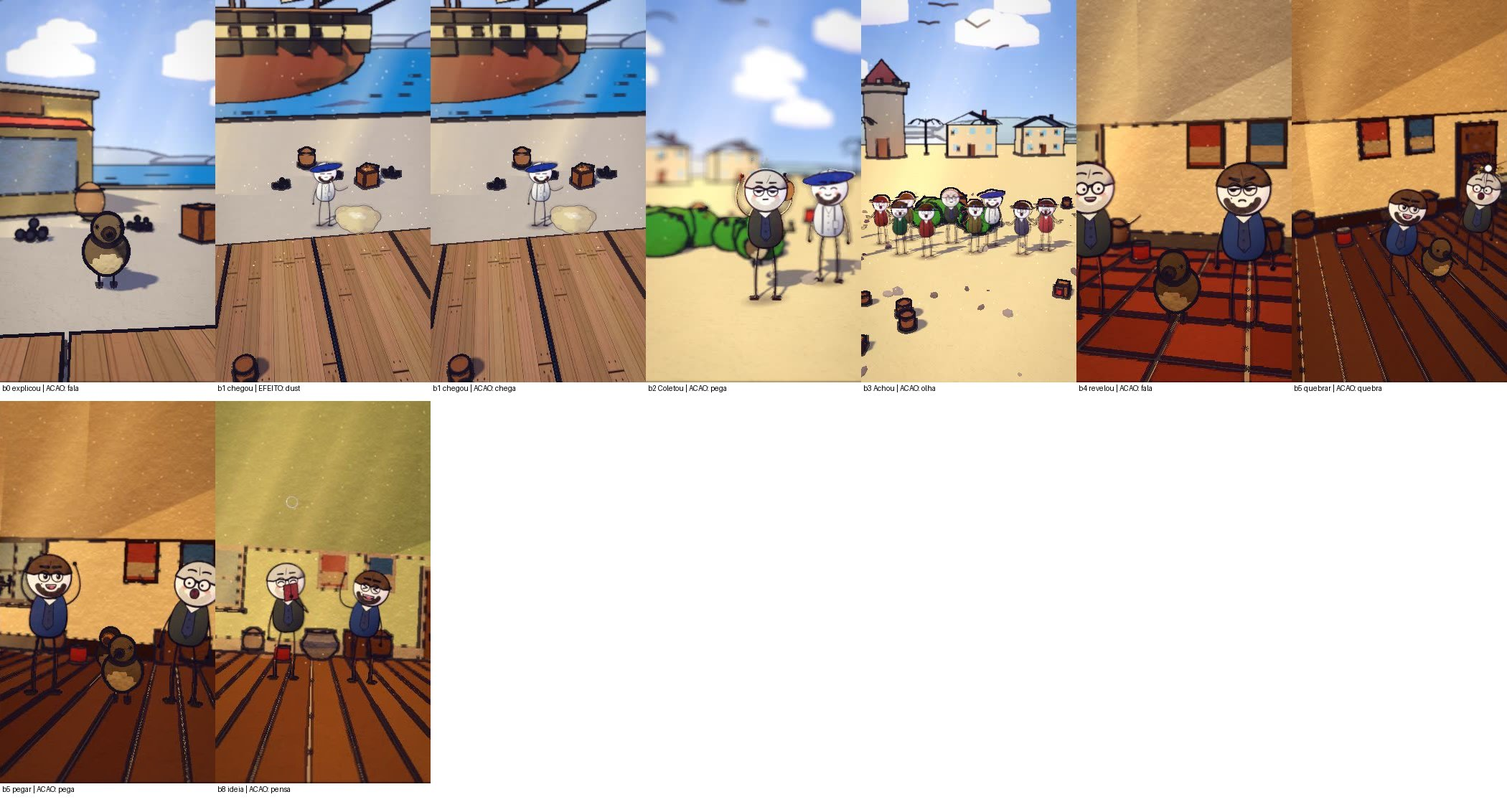
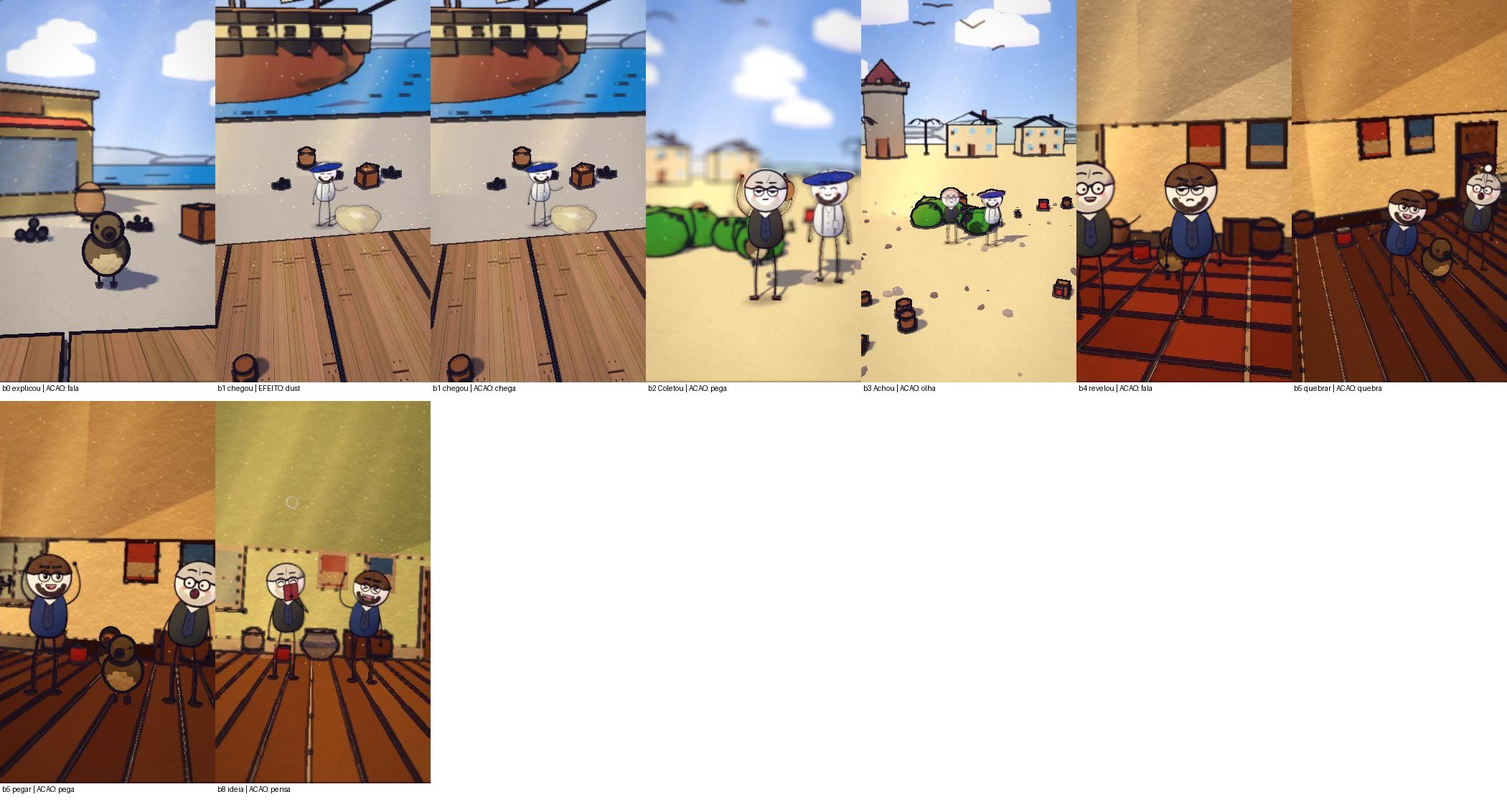
Arquimedes (C&C EP02) conferido frase a frase e entregue
Claude-Session: https://claude.ai/code/session_01HE8Dy3UcXXZZMLa7uzjNJD

Changed region(s): [[0.7429, 0.1825, 0.8667, 0.4258], [0.5571, 0.2433, 0.7119, 0.3345], [0.619, 0.0, 0.65, 0.0304]]

diff --git a/ferramenta-shorts/stories/darwin1835/spec.js b/ferramenta-shorts/stories/darwin1835/spec.js
@@ -17,10 +17,10 @@ const SPEC = {
     { ...{ ...S('b1', A[1], A[2] - 1, X, "day", { h: 4.0, d0: 21.0, d1: 20.0, el: 10, fov: 46, cx: 0.0, cz: -2.0, hero: { hero: 'none', wide: true }, vary: false, nocut: true, trans: 'dissolve', actors: [_MA(pp(X, "MAR", 0, 0.0, -0.4, "neutral"), { gests: [[WS(24) - 8, WS(24) + 46, 'point']] })], props: [{ asset: "kit/navio_vela", at: [X + -7.0, -33.8], s: 7.65, fixo: true, drop: false }, { asset: "kit/navio_fragata", at: [X + -15, -36], s: 7.06, drop: false }, { asset: "boat", at: [X + 30, -22], s: 1.0 }], fx: [{ k: 'map', a: WS(17, -2), b: Math.min(A[2] - 1, WS(17, -2) + 54), text: "GALÁPAGOS", geo: {"polys": [[260, 263, 258, 263, 252, 259, 253, 256, 255, 253, 262, 252, 265, 254, 265, 259, 263, 262, 261, 262, 260, 263], [293, 268, 289, 269, 287, 268, 287, 268, 286, 267, 289, 265, 291, 263, 293, 261, 297, 259, 298, 260, 299, 260, 299, 261, 298, 263, 295, 265, 293, 268], [220, 251, 217, 252, 214, 251, 212, 249, 212, 246, 212, 245, 219, 244, 221, 246, 221, 250, 220, 251], [257, 283, 255, 283, 253, 282, 255, 279, 256, 280, 258, 280, 258, 282, 257, 283], [226, 234, 228, 236, 229, 243, 237, 250, 238, 254, 237, 255, 237, 256, 241, 259, 243, 262, 239, 269, 231, 272, 222, 271, 221, 271, 218, 268, 218, 266, 219, 264, 224, 260, 231, 257, 231, 255, 229, 253, 227, 248, 222, 245, 220, 235, 219, 235, 216, 236, 214, 235, 214, 235, 217, 232, 218, 231, 223, 230, 225, 231, 226, 234], [251, 247, 250, 248, 243, 247, 241, 244, 242, 242, 244, 240, 248, 242, 252, 245, 251, 247]], "hl": [0, 1, 2, 3, 4, 5], "pin": [254.0, 260.0]} }, { k: "dust", a: WS(24), b: WS(24) + 28, at: [X + 0.9, DK + 0.12, 1.7], s: 1.3 }] }), nocut: true }, cam: [{ f: A[1], at: [X + 0.0, DK + 2.0, 0.5], d: 9, az: 10, el: 5, fov: 46 }, { f: A[2] - 1, at: [X + 0.0, DK + 1.0, -2.0], d: 30, az: -14, el: 30, fov: 48 }], nocut: true },
     S('b2', A[2], Math.round(A[2] + (A[3] - 1 + 1 - (A[2])) * 0.36) - 1, X_palace, "day", { h: 2.3, d0: 12.1, d1: 11.5, az0: -26, az1: -12, cx: 0.0, cz: -0.6, vary: false, hero: { hero: 'any', frame: 'medium', minH: 0.07, main: 2 }, trans: 'dissolve', actors: [_MA(pp(X_palace, "DAR", 0, -1.0, 1.3, "neutral", { over: { hold: "bag" }, inter: { k: 'lean', a: Math.round(A[2] + (A[3] - 1 - (A[2])) * 0.12), b: Math.round(A[2] + (A[3] - 1 - (A[2])) * 0.82), dir: 1, n: 2, ph: 0 } }), { gests: [[WS(31) - 8, WS(31) + 46, 'lift']] }), pp(X_palace, "MAR", 0, 1.0, 1.0, "smile", { pose: 'talk', inter: { k: 'nod', a: Math.round(A[2] + (A[3] - 1 - (A[2])) * 0.2), b: Math.round(A[2] + (A[3] - 1 - (A[2])) * 0.9), dir: -1, n: 2, ph: 3.14 } })], props: [{ asset: "kit/finch", at: [X_palace + 0.0, -1.2], s: 1.3, fixo: true, drop: false }], fx: [{ k: 'stars', a: A[2] + 6, b: A[2] + 40, at: [X_palace + 0.0, DK + 1.6, -0.7], s: 0.8 }, { k: 'birds', a: A[2], b: A[3] - 1, at: [X_palace, DK + 7.5, -30], n: 6, dir: -1, off: 8 }] }), { ...S('b2_d', Math.round(A[2] + (A[3] - 1 + 1 - (A[2])) * 0.36), Math.round(A[2] + (A[3] - 1 + 1 - (A[2])) * 0.6) - 1, X_palace, "day", { h: 2.3, d0: 12.1, d1: 11.5, az0: -26, az1: -12, cx: 0.0, cz: -0.6, vary: false, hero: { hero: 'none', detalhe: true }, trans: 'cut', actors: [_MA(pp(X_palace, "DAR", 0, -1.0, 1.3, "neutral", { over: { hold: "bag" } }), { gests: [[WS(31) - 8, WS(31) + 46, 'lift']] }), pp(X_palace, "MAR", 0, 1.0, 1.0, "smile", { pose: 'stand' })], props: [{ asset: "kit/finch", at: [X_palace + 0.0, -1.2], s: 1.3, drop: false, fixo: true, drop: false }], fx: [{ k: 'stars', a: A[2] + 6, b: A[2] + 40, at: [X_palace + 0.0, DK + 1.6, -0.7], s: 0.8 }, { k: 'birds', a: A[2], b: A[3] - 1, at: [X_palace, DK + 7.5, -30], n: 6, dir: -1, off: 8 }] }), cam: [{ f: Math.round(A[2] + (A[3] - 1 + 1 - (A[2])) * 0.36), at: [X_palace + 0.0, DK + 0.975, -1.2], d: 4.2, az: -14, el: 10, fov: 44 }, { f: Math.round(A[2] + (A[3] - 1 + 1 - (A[2])) * 0.6) - 1, at: [X_palace + 0.0, DK + 0.975, -1.2], d: 3.4, az: -8, el: 9, fov: 44 }], nocut: true, vary: false, glide: true, glideN: 34 }, { ...S('b2_v', Math.round(A[2] + (A[3] - 1 + 1 - (A[2])) * 0.6), A[3] - 1, X_palace, "day", { h: 2.3, d0: 12.1, d1: 11.5, az0: -26, az1: -12, cx: 0.0, cz: -0.6, vary: false, hero: { hero: 'any', frame: 'medium', minH: 0.07, main: 2 }, trans: 'cut', actors: [_MA(pp(X_palace, "DAR", 0, -1.0, 1.3, "neutral", { over: { hold: "bag" }, inter: { k: 'lean', a: Math.round(A[2] + (A[3] - 1 - (A[2])) * 0.12), b: Math.round(A[2] + (A[3] - 1 - (A[2])) * 0.82), dir: 1, n: 2, ph: 0 } }), { gests: [[WS(31) - 8, WS(31) + 46, 'lift']] }), pp(X_palace, "MAR", 0, 1.0, 1.0, "smile", { pose: 'talk', inter: { k: 'nod', a: Math.round(A[2] + (A[3] - 1 - (A[2])) * 0.2), b: Math.round(A[2] + (A[3] - 1 - (A[2])) * 0.9), dir: -1, n: 2, ph: 3.14 } })], props: [{ asset: "kit/finch", at: [X_palace + 0.0, -1.2], s: 1.3, drop: false, fixo: true, drop: false }], fx: [{ k: 'stars', a: A[2] + 6, b: A[2] + 40, at: [X_palace + 0.0, DK + 1.6, -0.7], s: 0.8 }, { k: 'birds', a: A[2], b: A[3] - 1, at: [X_palace, DK + 7.5, -30], n: 6, dir: -1, off: 8 }] }), glide: true, glideN: 34 },
     { ...S('b3', A[3], A[4] - 1, X_palace, "day", { h: 2.6, d0: 25.0, d1: 19.0, el: 11, fov: 46, cx: 0.0, cz: -1.5, hero: { hero: 'none', wide: true }, vary: false, nocut: true, trans: 'dissolve', actors: [_MA(pp(X_palace, "DAR", 0, -1.0, -0.4, "suspicious", { over: { hold: "paper" }, pose: 'talk' }), { gests: [[WS(55) - 8, WS(55) + 46, 'point']] }), pp(X_palace, "MAR", 0, 1.0, 0.2, "bored", { pose: 'talk' })], props: [{ asset: "kit/finch", at: [X_palace + 0.0, -2.3], s: 1.3, drop: false }], fx: [{ k: 'birds', a: A[3], b: A[4] - 1, at: [X_palace, DK + 4.5, -30], n: 4, dir: -1, off: 15 }, { k: "ring", a: A[3] + 12, b: A[3] + 38, at: [X_palace, DK + 0.5, 1.2], s: 1.1 }, { k: "dust", a: A[3] + 40, b: A[3] + 66, at: [X_palace + 0.9, DK + 0.12, 1.0], s: 0.75 }] }), nocut: true },
-    S('b4', A[4], A[5] - 1, X_hall, "study", { h: 2.3, d0: 12.1, d1: 11.5, az0: 6, az1: 12, cx: 0.0, cz: -0.6, vary: false, hero: { hero: 'any', frame: 'medium', minH: 0.07, main: 2 }, trans: 'dissolve', actors: [_MA(pp(X_hall, "DAR", 0, -1.0, 1.3, "surprised", { pose: 'talk', inter: { k: 'lunge', a: Math.round(A[4] + (A[5] - 1 - (A[4])) * 0.12), b: Math.round(A[4] + (A[5] - 1 - (A[4])) * 0.82), dir: 1, n: 2, ph: 0 } }), { gests: [[WS(76) - 8, WS(76) + 46, 'point']] }), pp(X_hall, "GOU", 0, 1.0, 1.0, "shout", { pose: 'talk', inter: { k: 'lunge', a: Math.round(A[4] + (A[5] - 1 - (A[4])) * 0.2), b: Math.round(A[4] + (A[5] - 1 - (A[4])) * 0.9), dir: -1, n: 2, ph: 3.14 } })], props: [{ asset: "kit/room_colonial_stone", at: [X_hall, 0], s: 1, drop: false }, { asset: "mk/Bookcase_2", at: [X_hall + 7.4, -3.4], s: 2.4, drop: false }, { asset: "mk/Table_Large", at: [X_hall + -6.6, -1.6], s: 2.2, drop: false }, { asset: "mk/Chair_1", at: [X_hall + -4.4, -1.2], s: 2.2, drop: false }, { asset: "mk/Chest_Wood", at: [X_hall + 6.9, 0.6], s: 2.2, drop: false }, { asset: "kit/finch", at: [X_hall + 0.6, 1.0], s: 1.5, fixo: true, drop: false }], fx: [{ k: 'stars', a: A[4] + 6, b: A[4] + 40, at: [X_hall + 0.6, DK + 1.6, 1.5], s: 0.8 }] }),
+    S('b4', A[4], A[5] - 1, X_hall, "study", { h: 2.3, d0: 12.1, d1: 11.5, az0: 6, az1: 12, cx: 0.0, cz: -0.6, vary: false, hero: { hero: 'any', frame: 'medium', minH: 0.07, main: 2 }, trans: 'dissolve', actors: [_MA(pp(X_hall, "DAR", 0, -1.0, 1.3, "surprised", { pose: 'talk', inter: { k: 'lunge', a: Math.round(A[4] + (A[5] - 1 - (A[4])) * 0.12), b: Math.round(A[4] + (A[5] - 1 - (A[4])) * 0.82), dir: 1, n: 2, ph: 0 } }), { gests: [[WS(76) - 8, WS(76) + 46, 'point']] }), pp(X_hall, "GOU", 0, 1.0, 1.0, "shout", { pose: 'talk', inter: { k: 'lunge', a: Math.round(A[4] + (A[5] - 1 - (A[4])) * 0.2), b: Math.round(A[4] + (A[5] - 1 - (A[4])) * 0.9), dir: -1, n: 2, ph: 3.14 } })], props: [{ asset: "kit/room_colonial_stone", at: [X_hall, 0], s: 1, drop: false }, { asset: "mk/Bookcase_2", at: [X_hall + 7.4, -3.4], s: 2.4, drop: false }, { asset: "mk/Table_Large", at: [X_hall + -6.6, -1.6], s: 2.2, drop: false }, { asset: "mk/Chair_1", at: [X_hall + -4.4, -1.2], s: 2.2, drop: false }, { asset: "mk/Chest_Wood", at: [X_hall + 6.9, 0.6], s: 2.2, drop: false }, { asset: "kit/finch", at: [X_hall + 0.0, -1.2], s: 1.5, fixo: true, drop: false }], fx: [{ k: 'stars', a: A[4] + 6, b: A[4] + 40, at: [X_hall + 0.0, DK + 1.6, -0.7], s: 0.8 }] }),
     S('b5', A[5], A[6] - 1, X_hall, "study", { h: 2.3, d0: 12.1, d1: 11.5, az0: -6, az1: 2, cx: 0.0, cz: -0.6, punches: [{ f: WS(91), amt: 0.11, dur: 20 }], vary: false, hero: { hero: 'any', frame: 'medium', minH: 0.07, main: 2 }, trans: 'dissolve', actors: [_MA(pp(X_hall, "GOU", 0, -1.0, 1.3, "smile", { pose: 'talk', inter: { k: 'step', a: Math.round(A[5] + (A[6] - 1 - (A[5])) * 0.12), b: Math.round(A[5] + (A[6] - 1 - (A[5])) * 0.82), dir: 1, n: 2, ph: 0 } }), { gests: [[WS(91) - 8, Math.max(WS(91) + 14, WS(96) - 5), 'throw'], [WS(96) - 8, WS(96) + 46, 'lift']] }), pp(X_hall, "DAR", 0, 1.0, 1.0, "surprised", { pose: 'talk', inter: { k: 'recoil', a: Math.round(A[5] + (A[6] - 1 - (A[5])) * 0.2), b: Math.round(A[5] + (A[6] - 1 - (A[5])) * 0.9), dir: -1, n: 2, ph: 3.14 } })], props: [{ asset: "kit/room_europa_wood", at: [X_hall, 0], s: 1, drop: false }, { asset: "mk/Cabinet", at: [X_hall + -7.2, -3.3], s: 2.3, drop: false }, { asset: "mk/Bed_Twin1", at: [X_hall + 7.0, -2.4], s: 2.1, drop: false }, { asset: "mk/Nightstand_Shelf", at: [X_hall + 4.6, -3.2], s: 2.2, drop: false }, { asset: "mk/CandleStick_Stand", at: [X_hall + -4.8, -2.8], s: 2.2, drop: false }, { asset: "mk/Barrel", at: [X_hall + -7.4, 0.8], s: 2.0, drop: false }, { asset: "kit/finch_thick", at: [X_hall + 0.0, -1.0], s: 1.5, fixo: true, drop: false }, { asset: "kit/finch_long", at: [X_hall + 0.6, 1.0], s: 1.5, fixo: true, drop: false }], fx: [{ k: "dust", a: A[5] + 40, b: A[5] + 66, at: [X_hall + 0.9, DK + 0.12, 1.0], s: 0.75 }, { k: "stars", a: A[5] + 60, b: A[5] + 86, at: [X_hall, DK + 0.5, 1.2], s: 1.1 }, { k: 'burst', a: WS(91) + 2, b: WS(91) + 20, at: [X_hall + 1.3, DK + 1.6, 2.5], s: 1.1 }, { k: 'stars', a: WS(91) + 4, b: WS(91) + 30, at: [X_hall + 1.3, DK + 1.8, 2.5], s: 0.8 }] }),
     { ...S('b6', A[6], A[7] - 1, X_palace, "day", { h: 2.6, d0: 12.1, d1: 11.5, el: 11, fov: 46, cx: 0.0, cz: -0.6, hero: { hero: 'none', wide: true }, vary: false, nocut: true, trans: 'dissolve', actors: [pp(X_palace, "DAR", 0, -1.0, -0.4, "shock", { pose: 'react' }), pp(X_palace, "GOU", 0, 1.0, 0.2, "surprised")], props: [{ asset: "kit/finch_thick", at: [X_palace + 0.6, 1.0], s: 1.5, fixo: true, drop: false }, { asset: "kit/finch_long", at: [X_palace + 0.0, 1.4], s: 2.0, fixo: true, drop: false }, { asset: "kit/finch", at: [X_palace + 0.0, -1.2], s: 2.0, fixo: true, drop: false }], fx: [{ k: 'birds', a: A[6], b: A[7] - 1, at: [X_palace, DK + 4.5, -30], n: 4, dir: -1, off: 8 }, { k: "ring", a: A[6] + 40, b: A[6] + 66, at: [X_palace, DK + 0.5, 1.2], s: 1.1 }, { k: "stars", a: A[6] + 60, b: A[6] + 86, at: [X_palace, DK + 0.5, 1.2], s: 1.1 }] }), nocut: true },
-    S('b7', A[7], A[8] - 1, X_hall, "study", { h: 2.3, d0: 12.1, d1: 11.5, az0: 10, az1: 4, cx: 0.0, cz: -0.6, hero: { hero: 'any', frame: 'medium', minH: 0.07, main: 2 }, trans: 'dissolve', actors: [pp(X_hall, "DAR", 0, -1.0, 1.3, "smile", { pose: 'talk', inter: { k: 'lean', a: Math.round(A[7] + (A[8] - 1 - (A[7])) * 0.12), b: Math.round(A[7] + (A[8] - 1 - (A[7])) * 0.82), dir: 1, n: 2, ph: 0 } }), pp(X_hall, "GOU", 0, 1.0, 1.0, "grin", { pose: 'talk', inter: { k: 'lean', a: Math.round(A[7] + (A[8] - 1 - (A[7])) * 0.2), b: Math.round(A[7] + (A[8] - 1 - (A[7])) * 0.9), dir: -1, n: 2, ph: 3.14 } })], props: [{ asset: "kit/room_verde_wood", at: [X_hall, 0], s: 1, drop: false }, { asset: "mk/Workbench_Drawers", at: [X_hall + 7.0, -3.0], s: 2.2, drop: false }, { asset: "mk/Shelf_Small_Bottles", at: [X_hall + -6.8, -3.4], s: 2.4, drop: false }, { asset: "mk/Stool", at: [X_hall + 4.8, -1.4], s: 2.2, drop: false }, { asset: "mk/Crate_Wooden", at: [X_hall + -7.0, 0.4], s: 2.0, drop: false }, { asset: "mk/Vase_2", at: [X_hall + 0.0, -3.6], s: 2.2, drop: false }, { asset: "kit/finch_thick", at: [X_hall + 0.6, 1.0], s: 1.5, fixo: true, drop: false }] }),
+    S('b7', A[7], A[8] - 1, X_hall, "study", { h: 2.3, d0: 12.1, d1: 11.5, az0: 10, az1: 4, cx: 0.0, cz: -0.6, hero: { hero: 'any', frame: 'medium', minH: 0.07, main: 2 }, trans: 'dissolve', actors: [pp(X_hall, "DAR", 0, -1.0, 1.3, "smile", { pose: 'talk', inter: { k: 'lean', a: Math.round(A[7] + (A[8] - 1 - (A[7])) * 0.12), b: Math.round(A[7] + (A[8] - 1 - (A[7])) * 0.82), dir: 1, n: 2, ph: 0 } }), pp(X_hall, "GOU", 0, 1.0, 1.0, "grin", { pose: 'talk', inter: { k: 'lean', a: Math.round(A[7] + (A[8] - 1 - (A[7])) * 0.2), b: Math.round(A[7] + (A[8] - 1 - (A[7])) * 0.9), dir: -1, n: 2, ph: 3.14 } })], props: [{ asset: "kit/room_verde_wood", at: [X_hall, 0], s: 1, drop: false }, { asset: "mk/Workbench_Drawers", at: [X_hall + 7.0, -3.0], s: 2.2, drop: false }, { asset: "mk/Shelf_Small_Bottles", at: [X_hall + -6.8, -3.4], s: 2.4, drop: false }, { asset: "mk/Stool", at: [X_hall + 4.8, -1.4], s: 2.2, drop: false }, { asset: "mk/Crate_Wooden", at: [X_hall + -7.0, 0.4], s: 2.0, drop: false }, { asset: "mk/Vase_2", at: [X_hall + 0.0, -3.6], s: 2.2, drop: false }, { asset: "kit/finch_thick", at: [X_hall + 0.0, -1.0], s: 1.5, fixo: true, drop: false }] }),
     S('b8', A[8], A[9] - 1, X_hall, "study", { h: 2.5, d0: 11.4, d1: 10.2, az0: -13, az1: -7, vary: false, hero: { hero: 'any', frame: 'medium', minH: 0.07, main: 2 }, trans: 'dissolve', actors: [_MA(pp(X_hall, "DAR", 0, -1.0, 1.3, "grin", { over: { hold: "book" }, pose: 'cheer', inter: { k: 'hop', a: Math.round(A[8] + (A[9] - 1 - (A[8])) * 0.12), b: Math.round(A[8] + (A[9] - 1 - (A[8])) * 0.82), dir: 1, n: 2, ph: 0 } }), { gests: [[WS(127) - 8, WS(127) + 46, 'think']] }), pp(X_hall, "GOU", 0, 1.0, 1.0, "laugh", { pose: 'cheer', inter: { k: 'hop', a: Math.round(A[8] + (A[9] - 1 - (A[8])) * 0.2), b: Math.round(A[8] + (A[9] - 1 - (A[8])) * 0.9), dir: -1, n: 2, ph: 3.14 } })], props: [{ asset: "kit/room_verde_wood", at: [X_hall, 0], s: 1, drop: false }, { asset: "mk/Workbench_Drawers", at: [X_hall + 7.0, -3.0], s: 2.2, drop: false }, { asset: "mk/Shelf_Small_Bottles", at: [X_hall + -6.8, -3.4], s: 2.4, drop: false }, { asset: "mk/Stool", at: [X_hall + 4.8, -1.4], s: 2.2, drop: false }, { asset: "mk/Crate_Wooden", at: [X_hall + -7.0, 0.4], s: 2.0, drop: false }, { asset: "mk/Vase_2", at: [X_hall + 0.0, -3.6], s: 2.2, drop: false }], fx: [{ k: 'ring', a: WS(127) + 6, b: WS(127) + 34, at: [X_hall + -1.0, DK + 3.6, 1.5], s: 0.7 }] }),
     S('b9', A[9], Math.round(A[9] + (A[10] - 1 + 1 - (A[9])) * 0.36) - 1, X_countryside, "day", { h: 2.3, d0: 8.4, d1: 8.0, az0: -6, az1: 8, cx: 1.2, cz: 0.1, hero: { hero: 'any', frame: 'medium', minH: 0.07, main: 1 }, trans: 'dissolve', actors: [pp(X_countryside, "DAR", 0, 0.0, 1.3, "smug", { pose: 'talk' })], props: [{ asset: "buildings/house_two", at: [X_countryside + 4.8, -11.0], s: 1.05, ry: -0.35, drop: false }, { asset: "kit/finch", at: [X_countryside + 2.4, 0.2], s: 1.3, fixo: true, drop: false }], fx: [{ k: 'stars', a: A[9] + 6, b: A[9] + 40, at: [X_countryside + 2.4, DK + 1.6, 0.7], s: 0.8 }] }), { ...S('b9_d', Math.round(A[9] + (A[10] - 1 + 1 - (A[9])) * 0.36), Math.round(A[9] + (A[10] - 1 + 1 - (A[9])) * 0.6) - 1, X_countryside, "day", { h: 2.3, d0: 8.4, d1: 8.0, az0: -6, az1: 8, cx: 1.2, cz: 0.1, hero: { hero: 'none', detalhe: true }, trans: 'cut', actors: [pp(X_countryside, "DAR", 0, 0.0, 1.3, "smug", { pose: 'stand' })], props: [{ asset: "buildings/house_two", at: [X_countryside + 4.8, -11.0], s: 1.05, drop: false, ry: -0.35, drop: false }, { asset: "kit/finch", at: [X_countryside + 2.4, 0.2], s: 1.3, drop: false, fixo: true, drop: false }], fx: [{ k: 'stars', a: A[9] + 6, b: A[9] + 40, at: [X_countryside + 2.4, DK + 1.6, 0.7], s: 0.8 }] }), cam: [{ f: Math.round(A[9] + (A[10] - 1 + 1 - (A[9])) * 0.36), at: [X_countryside + 2.4, DK + 0.975, 0.2], d: 4.2, az: -14, el: 10, fov: 44 }, { f: Math.round(A[9] + (A[10] - 1 + 1 - (A[9])) * 0.6) - 1, at: [X_countryside + 2.4, DK + 0.975, 0.2], d: 3.4, az: -8, el: 9, fov: 44 }], nocut: true, vary: false, glide: true, glideN: 34 }, { ...S('b9_v', Math.round(A[9] + (A[10] - 1 + 1 - (A[9])) * 0.6), A[10] - 1, X_countryside, "day", { h: 2.3, d0: 8.4, d1: 8.0, az0: -6, az1: 8, cx: 1.2, cz: 0.1, hero: { hero: 'any', frame: 'medium', minH: 0.07, main: 1 }, trans: 'cut', actors: [pp(X_countryside, "DAR", 0, 0.0, 1.3, "smug", { pose: 'talk' })], props: [{ asset: "buildings/house_two", at: [X_countryside + 4.8, -11.0], s: 1.05, drop: false, ry: -0.35, drop: false }, { asset: "kit/finch", at: [X_countryside + 2.4, 0.2], s: 1.3, drop: false, fixo: true, drop: false }], fx: [{ k: 'stars', a: A[9] + 6, b: A[9] + 40, at: [X_countryside + 2.4, DK + 1.6, 0.7], s: 0.8 }] }), glide: true, glideN: 34 },
     S('b10', A[10], A[11] - 1, X_countryside, "day", { h: 2.4, d0: 6.4, d1: 5.6, az0: -26, az1: -12, hero: { hero: 'any', frame: 'medium', minH: 0.07, main: 1 }, trans: 'dissolve', actors: [pp(X_countryside, "DAR", 0, 0.0, 1.3, "grin", { pose: 'talk' })], props: [{ asset: "buildings/house_small", at: [X_countryside + -4.8, -11.0], s: 1.05, ry: 0.35, drop: false }, { asset: "kit/finch", at: [X_countryside + -1.7, -0.5], s: 1.3, drop: false }], fx: [{ k: 'stars', a: A[10] + 6, b: A[10] + 40, at: [X_countryside + -1.7, DK + 1.6, 0.0], s: 0.8 }, { k: 'birds', a: A[10], b: A[11] - 1, at: [X_countryside, DK + 6.0, -30], n: 5, dir: -1, off: 8 }, txt(X_countryside, WS(151, -2), A[11] - 1, "COMENTE!", '#d8282f', '#fff6e0', 4.6, { s: 1.5, up: 0.55 })] })

diff --git a/ferramenta-shorts/stories/cachorro1925/timing.js b/ferramenta-shorts/stories/cachorro1925/timing.js
@@ -1,1 +1,1 @@
-const TIMING = {"total": 1634, "words": [[5, 10, "Um"], [10, 25, "cachorro"], [25, 34, "fugiu,"], [43, 48, "e"], [48, 53, "por"], [53, 62, "causa"], [62, 71, "dele"], [71, 76, "dois"], [76, 85, "pa\u00edses"], [85, 99, "entraram"], [99, 104, "em"], [104, 113, "guerra,"], [122, 127, "e"], [127, 140, "dezenas"], [140, 144, "de"], [144, 153, "pessoas"], [153, 166, "morreram."], [192, 196, "Em"], [196, 200, "mil"], [200, 216, "novecentos"], [216, 220, "e"], [220, 223, "vinte"], [223, 227, "e"], [227, 235, "cinco,"], [242, 246, "a"], [246, 259, "fronteira"], [259, 263, "entre"], [263, 268, "a"], [268, 272, "Gr\u00e9cia"], [272, 276, "e"], [276, 281, "a"], [281, 289, "Bulg\u00e1ria"], [289, 298, "era"], [298, 306, "tensa,"], [315, 320, "e"], [320, 326, "os"], [326, 332, "dois"], [332, 343, "pa\u00edses"], [343, 354, "viviam"], [354, 376, "desconfiados."], [401, 404, "Um"], [404, 416, "soldado"], [416, 424, "grego"], [424, 435, "estava"], [435, 439, "de"], [439, 446, "guarda"], [446, 454, "quando"], [454, 458, "o"], [458, 469, "cachorro"], [469, 477, "dele"], [477, 485, "fugiu"], [485, 492, "para"], [492, 496, "o"], [496, 504, "outro"], [504, 511, "lado"], [511, 515, "da"], [515, 527, "fronteira,"], [533, 539, "atr\u00e1s"], [539, 544, "de"], [544, 556, "nada."], [581, 586, "O"], [586, 600, "soldado"], [600, 609, "correu"], [609, 614, "atr\u00e1s"], [614, 619, "do"], [619, 633, "cachorro,"], [643, 648, "e"], [648, 666, "atravessou"], [666, 671, "a"], [671, 685, "fronteira"], [685, 689, "sem"], [689, 699, "pensar."], [723, 727, "Do"], [727, 736, "outro"], [736, 745, "lado,"], [752, 760, "uma"], [760, 776, "sentinela"], [776, 784, "b\u00falgara"], [784, 788, "viu"], [788, 792, "um"], [792, 804, "estranho"], [804, 816, "armado,"], [824, 827, "e"], [827, 838, "atirou."], [864, 878, "Acontece"], [878, 882, "que"], [882, 887, "o"], [887, 901, "soldado"], [901, 910, "morreu,"], [920, 925, "e"], [925, 930, "a"], [930, 934, "Gr\u00e9cia"], [934, 939, "deu"], [939, 944, "um"], [944, 963, "ultimato"], [963, 977, "furioso"], [977, 981, "\u00e0"], [981, 991, "Bulg\u00e1ria."], [1017, 1029, "Poucos"], [1029, 1035, "dias"], [1035, 1047, "depois,"], [1054, 1058, "o"], [1058, 1071, "ex\u00e9rcito"], [1071, 1080, "grego"], [1080, 1093, "invadiu"], [1093, 1097, "a"], [1097, 1106, "Bulg\u00e1ria"], [1106, 1110, "e"], [1110, 1123, "ocupou"], [1123, 1127, "a"], [1127, 1136, "regi\u00e3o"], [1136, 1140, "de"], [1140, 1149, "Petrich,"], [1157, 1162, "e"], [1162, 1176, "dezenas"], [1176, 1181, "de"], [1181, 1191, "pessoas"], [1191, 1205, "morreram"], [1205, 1210, "nos"], [1210, 1224, "combates."], [1250, 1255, "A"], [1255, 1264, "Bulg\u00e1ria"], [1264, 1274, "pediu"], [1274, 1288, "ajuda"], [1288, 1293, "\u00e0"], [1293, 1303, "Liga"], [1303, 1308, "das"], [1308, 1312, "Na\u00e7\u00f5es,"], [1319, 1323, "a"], [1323, 1342, "antecessora"], [1342, 1346, "da"], [1346, 1353, "ONU."], [1379, 1384, "A"], [1384, 1393, "Liga"], [1393, 1401, "mandou"], [1401, 1406, "a"], [1406, 1410, "Gr\u00e9cia"], [1410, 1419, "parar,"], [1426, 1438, "retirar"], [1438, 1442, "as"], [1442, 1450, "tropas"], [1450, 1454, "e"], [1454, 1462, "pagar"], [1462, 1470, "uma"], [1470, 1487, "indeniza\u00e7\u00e3o."], [1512, 1517, "A"], [1517, 1522, "Gr\u00e9cia"], [1522, 1541, "obedeceu,"], [1550, 1554, "e"], [1554, 1562, "ningu\u00e9m"], [1562, 1566, "sabe"], [1566, 1570, "o"], [1570, 1574, "que"], [1574, 1590, "aconteceu"], [1590, 1594, "com"], [1594, 1598, "o"], [1598, 1610, "cachorro."]], "phrases": [[5, 34, "Um cachorro fugiu,"], [43, 113, "e por causa dele dois pa\u00edses entraram em guerra,"], [122, 166, "e dezenas de pessoas morreram."], [192, 235, "Em mil novecentos e vinte e cinco,"], [242, 306, "a fronteira entre a Gr\u00e9cia e a Bulg\u00e1ria era tensa,"], [315, 376, "e os dois pa\u00edses viviam desconfiados."], [401, 527, "Um soldado grego estava de guarda quando o cachorro dele fugiu para o outro lado da fronteira,"], [533, 556, "atr\u00e1s de nada."], [581, 633, "O soldado correu atr\u00e1s do cachorro,"], [643, 699, "e atravessou a fronteira sem pensar."], [723, 745, "Do outro lado,"], [752, 816, "uma sentinela b\u00falgara viu um estranho armado,"], [824, 838, "e atirou."], [864, 910, "Acontece que o soldado morreu,"], [920, 991, "e a Gr\u00e9cia deu um ultimato furioso \u00e0 Bulg\u00e1ria."], [1017, 1047, "Poucos dias depois,"], [1054, 1149, "o ex\u00e9rcito grego invadiu a Bulg\u00e1ria e ocupou a regi\u00e3o de Petrich,"], [1157, 1224, "e dezenas de pessoas morreram nos combates."], [1250, 1312, "A Bulg\u00e1ria pediu ajuda \u00e0 Liga das Na\u00e7\u00f5es,"], [1319, 1353, "a antecessora da ONU."], [1379, 1419, "A Liga mandou a Gr\u00e9cia parar,"], [1426, 1487, "retirar as tropas e pagar uma indeniza\u00e7\u00e3o."], [1512, 1541, "A Gr\u00e9cia obedeceu,"], [1550, 1610, "e ningu\u00e9m sabe o que aconteceu com o cachorro."]]};
+const TIMING = {"total": 1686, "words": [[5, 9, "Um"], [9, 21, "cachorro"], [21, 29, "fugiu"], [29, 37, "pela"], [37, 50, "fronteira"], [50, 54, "e"], [54, 58, "quase"], [58, 66, "come\u00e7ou"], [66, 74, "uma"], [74, 82, "guerra"], [82, 87, "na"], [87, 99, "Europa."], [125, 129, "Em"], [129, 141, "outubro"], [141, 145, "de"], [145, 149, "mil"], [149, 165, "novecentos"], [165, 169, "e"], [169, 173, "vinte"], [173, 177, "e"], [177, 185, "cinco,"], [192, 197, "a"], [197, 210, "fronteira"], [210, 215, "entre"], [215, 219, "a"], [219, 224, "Gr\u00e9cia"], [224, 229, "e"], [229, 233, "a"], [233, 242, "Bulg\u00e1ria"], [242, 256, "estava"], [256, 265, "tensa."], [290, 300, "Dizem"], [300, 304, "que"], [304, 309, "um"], [309, 323, "soldado"], [323, 332, "grego"], [332, 341, "correu"], [341, 346, "atr\u00e1s"], [346, 350, "do"], [350, 364, "cachorro,"], [372, 377, "e"], [377, 386, "cruzou"], [386, 390, "a"], [390, 404, "fronteira."], [430, 435, "Do"], [435, 444, "outro"], [444, 454, "lado,"], [460, 475, "soldados"], [475, 484, "b\u00falgaros"], [484, 504, "atiraram,"], [514, 518, "e"], [518, 523, "o"], [523, 536, "soldado"], [536, 545, "tombou"], [545, 554, "morto."], [579, 584, "A"], [584, 595, "Bulg\u00e1ria"], [595, 605, "pediu"], [605, 620, "desculpas"], [620, 626, "e"], [626, 631, "prop\u00f4s"], [631, 651, "investigar"], [651, 661, "juntos."], [687, 693, "A"], [693, 698, "Gr\u00e9cia"], [698, 715, "recusou,"], [725, 728, "e"], [728, 732, "deu"], [732, 744, "quarenta"], [744, 747, "e"], [747, 755, "oito"], [755, 763, "horas"], [763, 770, "para"], [770, 774, "a"], [774, 782, "Bulg\u00e1ria"], [782, 789, "punir"], [789, 793, "os"], [793, 804, "culpados,"], [812, 821, "pedir"], [821, 834, "desculpas"], [834, 839, "e"], [839, 848, "pagar."], [872, 879, "Dias"], [879, 894, "depois,"], [901, 905, "em"], [905, 909, "vinte"], [909, 913, "e"], [913, 917, "dois"], [917, 922, "de"], [922, 934, "outubro,"], [941, 946, "o"], [946, 960, "ex\u00e9rcito"], [960, 969, "grego,"], [979, 985, "com"], [985, 991, "vinte"], [991, 997, "mil"], [997, 1015, "soldados,"], [1022, 1036, "invadiu"], [1036, 1040, "a"], [1040, 1049, "Bulg\u00e1ria"], [1049, 1054, "e"], [1054, 1067, "ocupou"], [1067, 1072, "a"], [1072, 1081, "cidade"], [1081, 1086, "de"], [1086, 1095, "Petrich."], [1121, 1126, "S\u00f3"], [1126, 1131, "que"], [1131, 1135, "a"], [1135, 1145, "Bulg\u00e1ria"], [1145, 1159, "apelou"], [1159, 1164, "\u00e0"], [1164, 1173, "Liga"], [1173, 1178, "das"], [1178, 1183, "Na\u00e7\u00f5es,"], [1189, 1193, "a"], [1193, 1211, "antecessora"], [1211, 1215, "da"], [1215, 1222, "ONU."], [1249, 1253, "A"], [1253, 1263, "Liga"], [1263, 1272, "mandou"], [1272, 1281, "parar"], [1281, 1286, "a"], [1286, 1295, "guerra"], [1295, 1300, "de"], [1300, 1305, "dez"], [1305, 1310, "dias,"], [1317, 1321, "e"], [1321, 1326, "a"], [1326, 1331, "Gr\u00e9cia"], [1331, 1344, "retirou"], [1344, 1349, "as"], [1349, 1358, "tropas"], [1358, 1362, "e"], [1362, 1371, "pagou"], [1371, 1385, "quarenta"], [1385, 1390, "e"], [1390, 1399, "cinco"], [1399, 1403, "mil"], [1403, 1412, "libras."], [1438, 1447, "At\u00e9"], [1447, 1455, "hoje,"], [1462, 1467, "n\u00e3o"], [1467, 1472, "h\u00e1"], [1472, 1485, "acordo"], [1485, 1490, "nem"], [1490, 1495, "sobre"], [1495, 1499, "a"], [1499, 1513, "exist\u00eancia"], [1513, 1518, "do"], [1518, 1531, "cachorro."], [1557, 1571, "Agora"], [1571, 1576, "n\u00e3o"], [1576, 1581, "deixe"], [1581, 1586, "de"], [1586, 1600, "comentar:"], [1609, 1614, "qual"], [1614, 1620, "deve"], [1620, 1625, "ser"], [1625, 1630, "o"], [1630, 1641, "tema"], [1641, 1646, "do"], [1646, 1657, "pr\u00f3ximo"], [1657, 1662, "v\u00eddeo?"]], "phrases": [[5, 99, "Um cachorro fugiu pela fronteira e quase come\u00e7ou uma guerra na Europa."], [125, 185, "Em outubro de mil novecentos e vinte e cinco,"], [192, 265, "a fronteira entre a Gr\u00e9cia e a Bulg\u00e1ria estava tensa."], [290, 364, "Dizem que um soldado grego correu atr\u00e1s do cachorro,"], [372, 404, "e cruzou a fronteira."], [430, 454, "Do outro lado,"], [460, 504, "soldados b\u00falgaros atiraram,"], [514, 554, "e o soldado tombou morto."], [579, 661, "A Bulg\u00e1ria pediu desculpas e prop\u00f4s investigar juntos."], [687, 715, "A Gr\u00e9cia recusou,"], [725, 804, "e deu quarenta e oito horas para a Bulg\u00e1ria punir os culpados,"], [812, 848, "pedir desculpas e pagar."], [872, 894, "Dias depois,"], [901, 934, "em vinte e dois de outubro,"], [941, 969, "o ex\u00e9rcito grego,"], [979, 1015, "com vinte mil soldados,"], [1022, 1095, "invadiu a Bulg\u00e1ria e ocupou a cidade de Petrich."], [1121, 1183, "S\u00f3 que a Bulg\u00e1ria apelou \u00e0 Liga das Na\u00e7\u00f5es,"], [1189, 1222, "a antecessora da ONU."], [1249, 1310, "A Liga mandou parar a guerra de dez dias,"], [1317, 1412, "e a Gr\u00e9cia retirou as tropas e pagou quarenta e cinco mil libras."], [1438, 1455, "At\u00e9 hoje,"], [1462, 1531, "n\u00e3o h\u00e1 acordo nem sobre a exist\u00eancia do cachorro."], [1557, 1600, "Agora n\u00e3o deixe de comentar:"], [1609, 1662, "qual deve ser o tema do pr\u00f3ximo v\u00eddeo?"]]};

diff --git a/ferramenta-shorts/stories/arquimedes250/revisao_final.md b/ferramenta-shorts/stories/arquimedes250/revisao_final.md
@@ -1,0 +1,30 @@
+# Revisao final - arquimedes250 (25/11, frase a frase olhado pela principal)
+f0: OK - "Um homem pulou da banheira e saiu correndo pela rua," -> Arquimedes correndo na rua ao lado da banheira, EUREKA
+f1: OK - "gritando uma palavra só." -> mesma cena: Arquimedes correndo na rua ao lado da banheira, EUREKA
+f2: OK - "Foi em Siracusa," -> mapa SICILIA
+f3: OK - "na Sicília," -> mesma cena: mapa SICILIA
+f4: OK - "há mais de dois mil anos." -> praca de Siracusa com moradores
+f5: OK - "O rei Hierão mandou fazer uma coroa de ouro puro," -> rei de coroa e ourives com o ouro
+f6: OK - "mas desconfiou do ourives." -> mesma cena: rei de coroa e ourives com o ouro
+f7: OK - "Será que trocou parte do ouro por prata?" -> mesma cena: rei de coroa e ourives com o ouro
+f8: OK - "O rei chamou Arquimedes e pediu a verdade," -> rei e Arquimedes, o rei pede a verdade
+f9: OK - "mas sem estragar a coroa." -> mesma cena: rei e Arquimedes, o rei pede a verdade
+f10: OK - "Acontece que," -> Arquimedes na banheira com agua
+f11: OK - "numa tarde," -> mesma cena: Arquimedes na banheira com agua
+f12: OK - "ele entrou na banheira," -> mesma cena: Arquimedes na banheira com agua
+f13: OK - "e a água transbordou pelas bordas." -> mesma cena: Arquimedes na banheira com agua
+f14: OK - "Ele percebeu que o tanto de água que sai é igual ao tamanho do corpo que entra." -> explicacao AGUA QUE SAI
+f15: OK - "Se a coroa tivesse prata," -> explicacao COM PRATA = MAIOR / DERRAMA MAIS AGUA
+f16: OK - "seria maior que o ouro puro de mesmo peso," -> mesma cena: explicacao COM PRATA = MAIOR / DERRAMA MAIS AGUA
+f17: OK - "e derramaria mais água." -> mesma cena: explicacao COM PRATA = MAIOR / DERRAMA MAIS AGUA
+f18: OK - "Assim dava para medir a coroa," -> balanca com a coroa e o ouro na praca
+f19: OK - "e comparar com o mesmo peso de ouro puro." -> mesma cena: balanca com a coroa e o ouro na praca
+f20: OK - "Conta a lenda que ele gritou Eureca pela rua." -> multidao e EUREKA
+f21: OK - "E a coroa tinha mesmo prata." -> mesma cena: multidao e EUREKA
+f22: OK - "No fim," -> rei e ourives com a banheira
+f23: OK - "dá para enganar um rei," -> mesma cena: rei e ourives com a banheira
+f24: OK - "mas não uma banheira." -> chamada COMENTE
+f25: OK - "Agora não deixe de comentar:" -> mesma cena: chamada COMENTE
+f26: OK - "qual deve ser o tema do próximo vídeo?" -> mesma cena: chamada COMENTE
+gancho: OK - "Um homem pulou da banheira e saiu correndo pela rua, gritando uma palavra so" com EUREKA e a banheira na rua
+piloto: OK - mapa, explicacao com rotulos, multidao no Eureka, final ironico curto, chamada

diff --git a/ferramenta-shorts/stories/darwin1835/cronograma.md b/ferramenta-shorts/stories/darwin1835/cronograma.md
@@ -1,6 +1,6 @@
 # CRONOGRAMA - Curiosidade e Ciência EP 08 - Darwin e os Tentilhões
 
-Gerado em 24/11 23:44 | 11 cenas | metricas: acoes_encenadas 100%, acoes_chave_com_efeito 100%, explicacoes_cobertas 100%, cenario_e_epoca_ok 100%
+Gerado em 25/11 00:12 | 11 cenas | metricas: acoes_encenadas 100%, acoes_chave_com_efeito 100%, explicacoes_cobertas 100%, cenario_e_epoca_ok 100%
 
 ## 1. Plano de cenas (o que cada frase vai mostrar)
 
@@ -29,13 +29,13 @@ N | Etapa | O que confere | Estado | Proximo passo
 5 | Voz | narracao neural gerada e tempos por palavra | FEITO | 
 6 | Estilo e enquadramento | autoajuste de luz/cor e ajuste de camera de cada tomada | FEITO | 
 7 | Gates | camera OK, todas as tomadas OK, estilo OK | FEITO | 
-8 | Storyboard e grade de acoes | video inteiro em quadros + 1 quadro no instante de cada acao | PENDENTE | 
-9 | Revisao escrita e aprovacao | uma linha por frase conferindo com a folha 3 e com o quadro da pesquisa | BLOQUEADO (etapa anterior pendente) | ./aprovar_storyboard.sh darwin1835
+8 | Storyboard e grade de acoes | video inteiro em quadros + 1 quadro no instante de cada acao | FEITO | 
+9 | Revisao escrita e aprovacao | uma linha por frase conferindo com a folha 3 e com o quadro da pesquisa | PENDENTE | ./aprovar_storyboard.sh darwin1835
 10 | Render | todos os quadros renderizados nesta versao das folhas | BLOQUEADO (etapa anterior pendente) | 
 11 | Montagem e som | trechos + voz + musica + efeitos; volume normalizado | BLOQUEADO (etapa anterior pendente) | 
 12 | Conferencia | conferir.sh sem falha e folha de contato olhada | BLOQUEADO (etapa anterior pendente) | ./conferir.sh darwin1835
 13 | Auditoria das acoes | 1 quadro do mp4 em cada palavra de acao | BLOQUEADO (etapa anterior pendente) | bash auditar_acoes.sh local darwin1835 <mp4>
 14 | Entrega | mp4 original 1080x1920 enviado; commit e push | BLOQUEADO (etapa anterior pendente) | 
 
-**Etapa atual:** 8. Storyboard e grade de acoes
+**Etapa atual:** 9. Revisao escrita e aprovacao
 

diff --git a/ferramenta-shorts/stories/darwin1835/autocorrecoes.md b/ferramenta-shorts/stories/darwin1835/autocorrecoes.md
@@ -26,3 +26,11 @@
 
 ## 24/11 23:33 autocorrecao de visibilidade
 - b6: ja corrigida 3 vezes, objeto "kit/finch_thick" saiu com 16% da altura da tela, a ficha de cena planejou 32% -> fica para o olho
+
+## 25/11 00:11 autocorrecao de visibilidade
+- b6: objeto citado "kit/finch_long" nao aparece na tela (escondido, fora do quadro ou pequeno demais) -> objeto trazido para perto do centro (-1.6, -1.0)
+- b5: objeto "kit/finch_thick" saiu com 16% da altura da tela, a ficha de cena planejou 32% -> objeto trazido para perto do centro (0.0, -1.0)
+- b5: objeto "kit/finch_long" saiu com 10% da altura da tela, a ficha de cena planejou 32% -> objeto na frente dos personagens e maior
+- b6: objeto "kit/finch_thick" saiu com 10% da altura da tela, a ficha de cena planejou 32% -> objeto na frente dos personagens e maior
+- b6: objeto "kit/finch_long" saiu com 6% da altura da tela, a ficha de cena planejou 32% -> close no objeto
+- b7: objeto "kit/finch_thick" saiu com 15% da altura da tela, a ficha de cena planejou 32% -> objeto trazido para perto do centro (0.0, -1.0)
